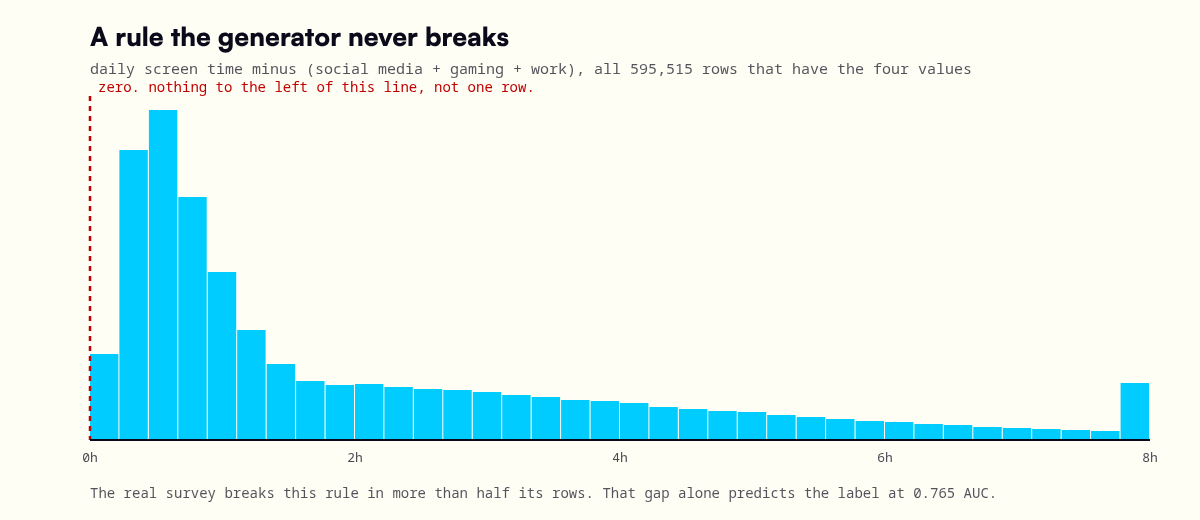
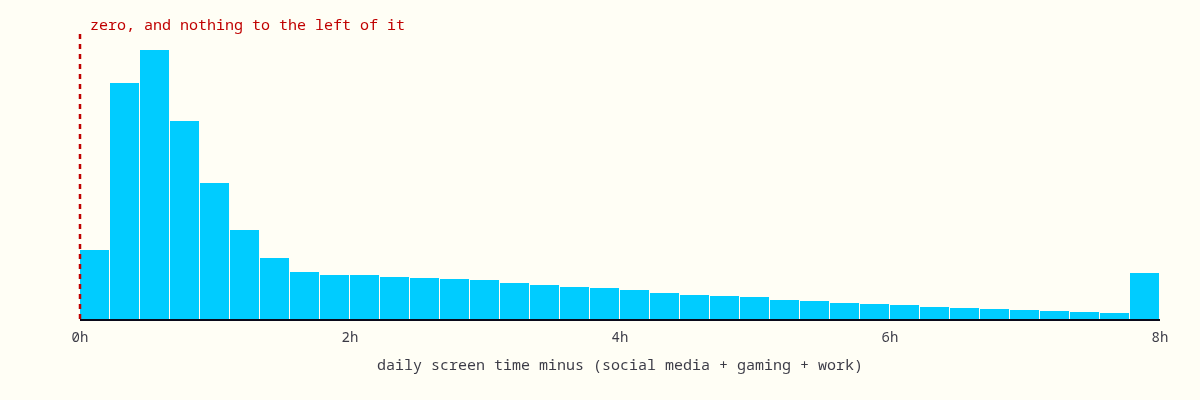
fix(blog): charts carry no text, explanations move to captions
Claude-Session: https://claude.ai/code/session_01SiFhgUcJUqx6MQk2GS2nYk

Changed region(s): [[0.0617, 0.12, 0.9867, 0.96], [0.0617, 0.03, 0.4317, 0.09]]

diff --git a/src/app/blog/top-ten-percent-on-kaggle/page.js b/src/app/blog/top-ten-percent-on-kaggle/page.js
@@ -82,8 +82,8 @@ export default function KagglePage() {
 691371,0.9002`}</code></pre>
 
         <p>
-          The second number is not a yes or no. It is how confident you are, between 0 and 1. That surprised me.
-          Kaggle scores you and puts you on a leaderboard, and you can upload five times a day. The competition
+          That second number is a confidence between 0 and 1 rather than a yes or no, which I had not expected.
+          Kaggle scores the file, puts you on a leaderboard, and lets you upload five times a day. The competition
           I entered was{" "}
           <a href="https://www.kaggle.com/competitions/playground-series-s6e8">Playground Series Season 6, Episode 8</a>,
           which ran from the start of August to the 31st. Playground competitions are the practice tier: no prize
@@ -93,8 +93,7 @@ export default function KagglePage() {
         <h2>The score, and why it is not accuracy</h2>
 
         <p>
-          The metric here is ROC AUC, and nobody explains it well the first time, so here is the version that
-          finally worked for me.
+          The metric here is ROC AUC. It took me a few tries to get it, and this is the phrasing that stuck.
         </p>
 
         <p>
@@ -114,7 +113,7 @@ export default function KagglePage() {
         <Figure
           src="/blog/kaggle/what-auc-measures.png"
           alt="Two overlapping histograms of my model's predicted probabilities across all 691,369 training people, one for those actually addicted and one for those not, showing heavy separation but real overlap."
-          caption="My model's guess for every person in the training set, split by what they actually were. AUC is the chance a randomly picked pink sits to the right of a randomly picked blue. The overlap in the middle is the score I did not have."
+          caption="My model&apos;s guess for each of the 691,369 training people, split by what they actually were. Blue piles up near zero, pink near one, and the purple is where they overlap. AUC is the chance a random pink sits to the right of a random blue, which here came to 0.96995. Counts are on a log scale, since the bar at 1.0 is otherwise forty times taller than anything else."
         />
 
         <h2>The first hour</h2>
@@ -128,8 +127,8 @@ export default function KagglePage() {
         <p>
           My first question was how anyone finds the extra 0.0065, and my second was whether 0.0065 is even a lot.
           On this problem it is, because the entire field lives inside about half a percent. A ten-minute script
-          put me within 0.65 percent of first place, and the remaining twelve days went on the last 0.006. That
-          ratio is the whole shape of competitive machine learning and I did not know it before that afternoon.
+          put me within 0.65 percent of first place, and the remaining twelve days went on the last 0.006. I had
+          assumed the gap between a beginner and the top would be wide, and most of it closed in ten minutes.
         </p>
 
         <p>
@@ -203,7 +202,7 @@ export default function KagglePage() {
         <Figure
           src="/blog/kaggle/repeated-values.png"
           alt="Bar chart of the 18 most common exact values of daily screen time hours, each appearing between roughly 1,700 and 3,434 times across 595,515 rows."
-          caption="The 18 most common values of daily screen time. A real measurement would almost never repeat like this."
+          caption="The eighteen most common values of daily screen time. There are only 1,389 distinct values across 595,515 rows, and the most common one repeats 3,434 times."
         />
 
         <p>
@@ -222,7 +221,7 @@ export default function KagglePage() {
         <Figure
           src="/blog/kaggle/slack-constraint.png"
           alt="Histogram of daily screen time minus the sum of social media, gaming and work hours, with a dashed line at zero and no mass at all to the left of it."
-          caption="Daily screen time minus the sum of its parts, every row that has all four numbers. Nothing falls to the left of zero."
+          caption="Daily screen time minus social media, gaming and work hours, for every row that carries all four. None of the 595,515 rows falls below zero. The real survey breaks the same rule in more than half of its own rows."
         />
 
         <p>
@@ -271,12 +270,12 @@ export default function KagglePage() {
         <Figure
           src="/blog/kaggle/leaderboard-clusters.png"
           alt="Bar chart of how many teams share each exact public leaderboard score near the top, with tall bars of 72 and 71 teams at 0.97128 and 0.97130, and my own cluster of 24 teams at 0.97117 highlighted."
-          caption="Teams sharing each exact score at the top of the final leaderboard. Identical scores mean identical files. My cluster is the pink one, and the tall bars to its right are later forks of the same notebook."
+          caption="How many teams share each exact score at the top of the final public leaderboard. Identical scores mean identical files. Mine is the pink bar, tied with 23 others, and the bars of 72 and 71 teams to its right are later forks of the same notebook."
         />
 
         <p>
-          Borrowing a number gets you the number and not the position, and I do not think I would have understood
-          that from reading about it.
+          The fork handed me a score that other people were already busy improving on. I do not think I would have
+          understood that from reading about it.
         </p>
 
         <h2>The two finals</h2>
@@ -346,7 +345,7 @@ export default function KagglePage() {
         <Figure
           src="/blog/kaggle/bayes-ceiling.png"
           alt="A proportion bar showing 83 percent of people in look-alike groups sit in a group containing both answers, with the example of 3,339 people sharing four rounded values of whom 17 percent were labelled addicted."
-          caption="Group people by four rounded numbers and 83 percent of them land in a group that contains both answers. That overlap is the part of the score nobody can win."
+          caption="The 685,219 people who share four rounded numbers with at least nineteen others. 83 percent of them sit in a group where the answer is not unanimous. One such group holds 3,339 people who all reported 4h screen time, 1h social media, 7h sleep and 1h gaming, and 17 percent of them were labelled addicted."
         />
 
         <p>
